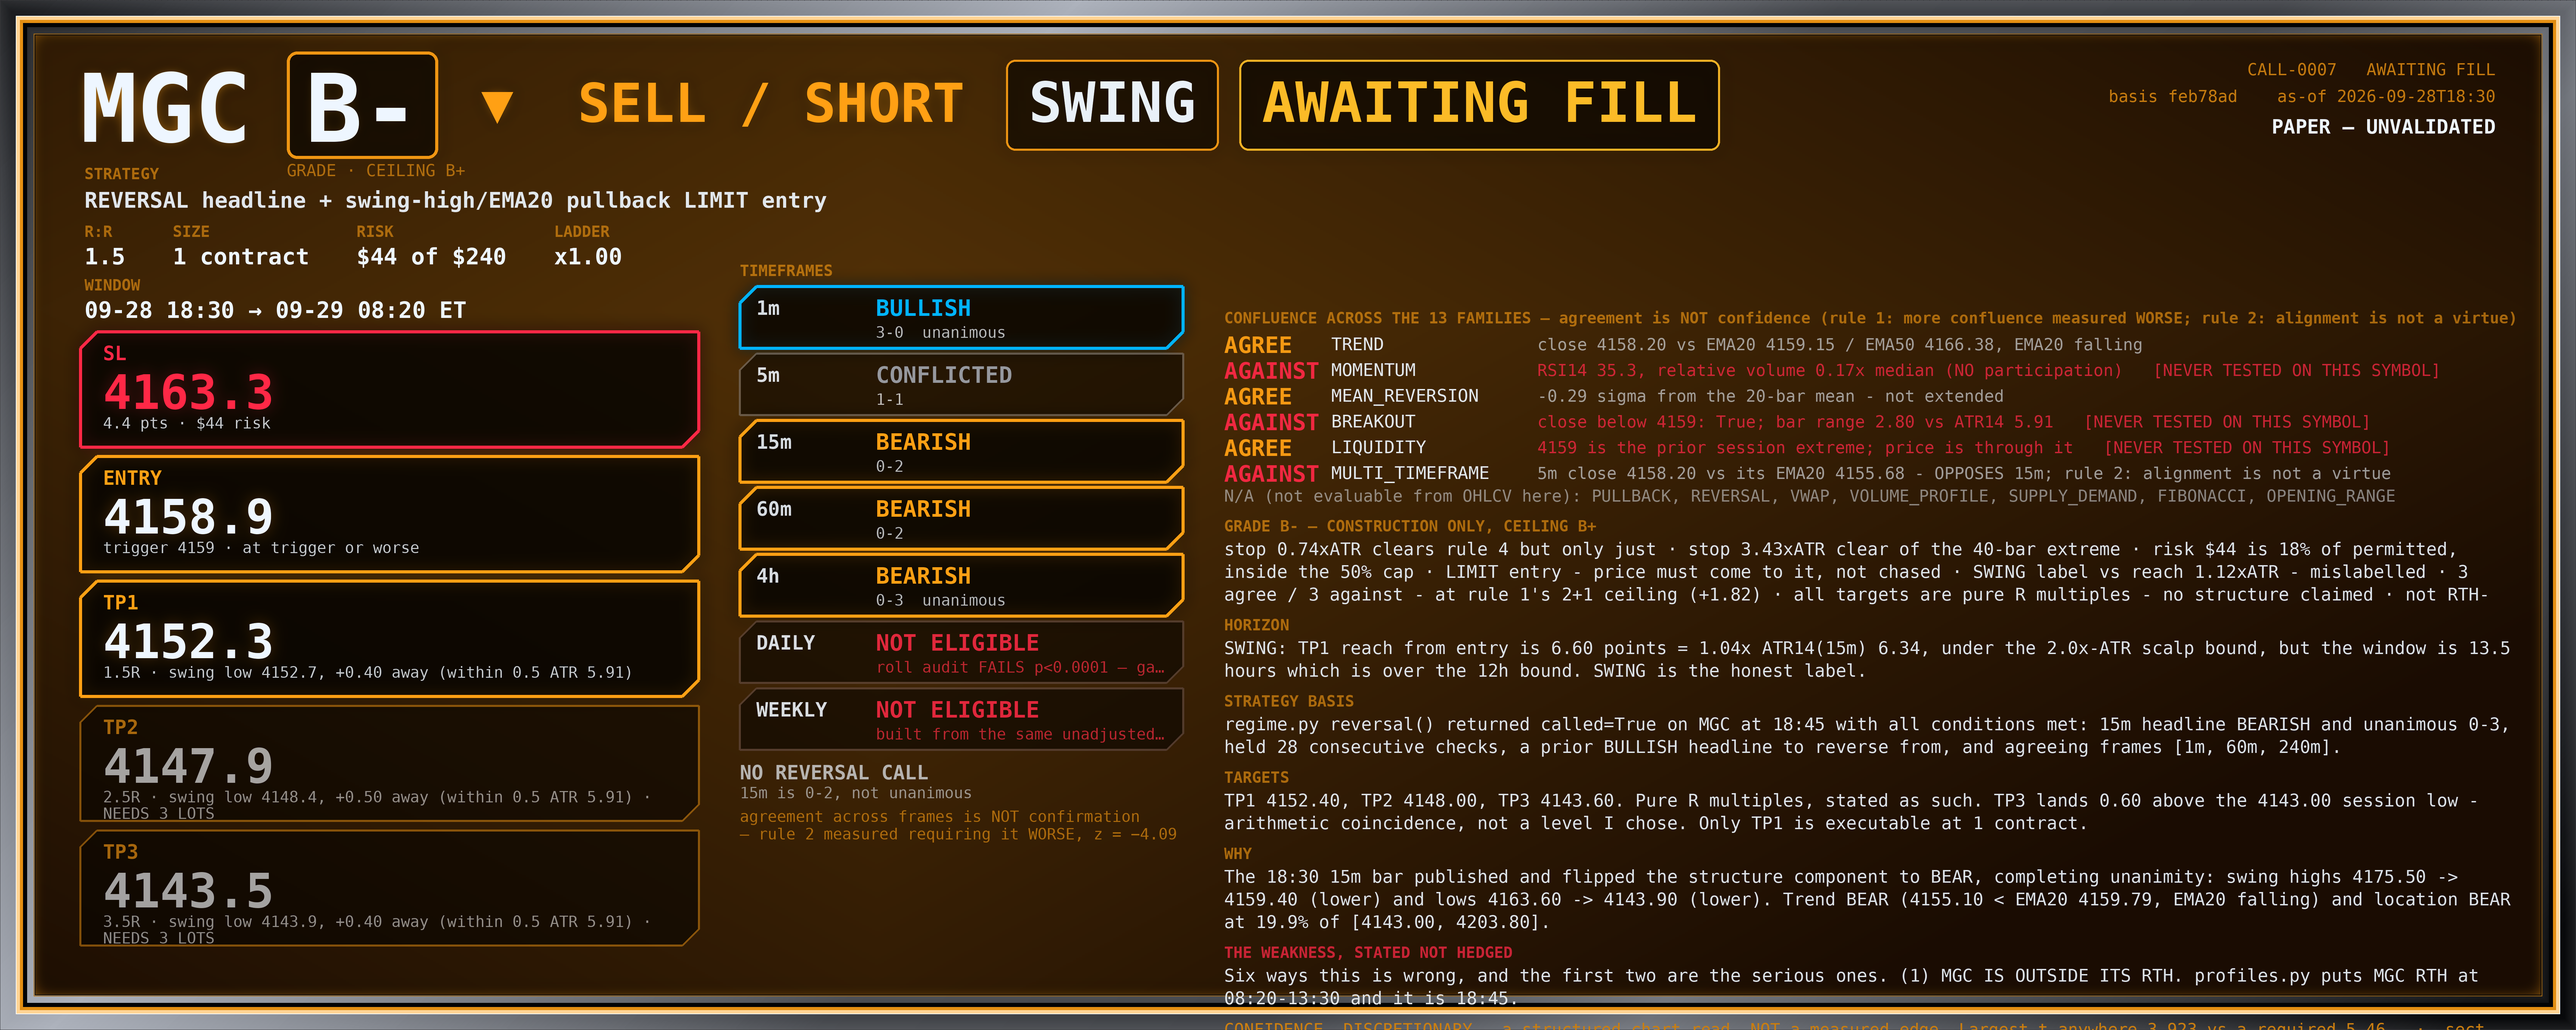
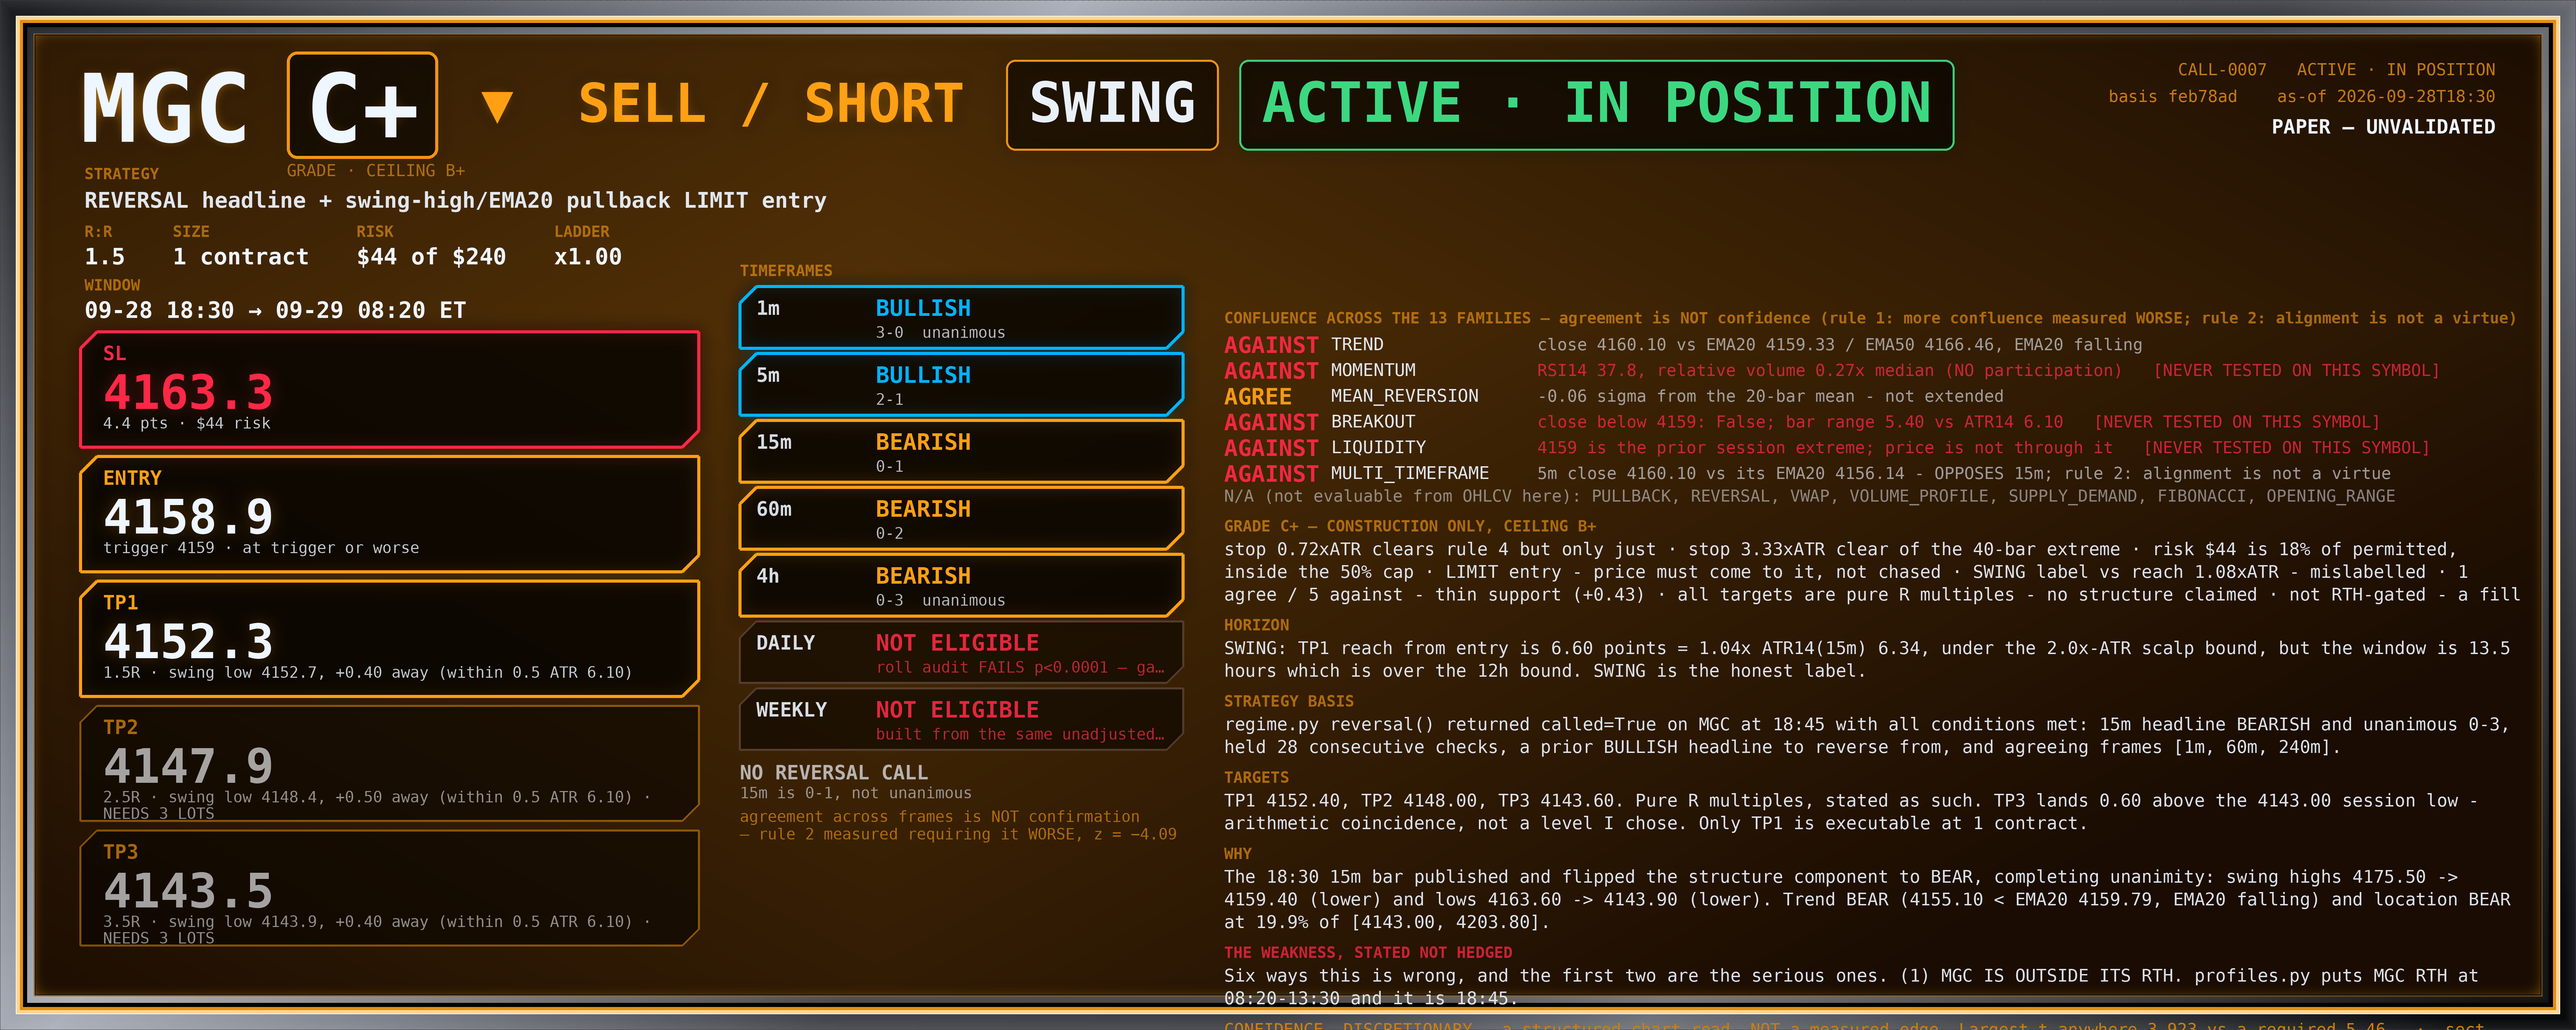
CALL desk: 19:36 - CALL-0007 FILLED, MGC SHORT @ 4159.00 on the 15m 19:15 bar, stop 4163.40, $44 at risk; detected 21 min later inside the blind spot and already 1.10 against. It filled on a gate that had lapsed, the risk I flagged at 19:00 and declined to void
Claude-Session: https://claude.ai/code/session_01EE6PFk7fGa2tM4KP6dpfWD

diff --git a/workspace/paper/CALL/DECISIONS.md b/workspace/paper/CALL/DECISIONS.md
@@ -64,6 +64,7 @@ the second is how a veto flatters itself and quoting only the first is how a tra
 | 22 | 19:02 | **The 19:00 "gate lapsed" was a REVISION, not an event — corrected.** The 18:45 15m bar restated (`new=0 revised=1`), the 4153.70 higher low was revised away, structure is BEAR again and the reversal call is back, held 44 checks with agreeing frames [1m, 5m, 60m, 240m] | I reported a lapse as a real change. It was a restatement of an unclosed bar, exactly what N140 says to distrust, and I described it as the gate dropping | **refusing to act on it was right, and this is the proof.** Had I installed a "gate lapsed" void rule at 19:00 and killed CALL-0007, I would have killed a live plan on a number that no longer exists. N8 protected the plan from my own reaction | sixth 15m flip-and-revert today. The lesson is not "be slower" — it is that a gate change read off an unclosed bar is not a gate change until the bar settles |
 | 23 | 19:04 | **CALL-0008 — LONG MNQ pre-registered.** 15m went unanimous BULL 3-0 (EMA20 turned rising, higher high AND higher low), reversal called with agreeing frames [1m, 5m, DAILY, WEEKLY]. LIMIT BUY 30588.00, stop 30565.00 (23.00 pts = 0.61x ATR), TP1 30622.50, 1 contract, $46 | if both plans fill and both lose: **−$90 (−2R)**. Opposite directions on two markets is NOT a hedge — MGC and MNQ are independent, so these are two bets, not offsetting ones | the gate said yes with both vetoes clear; refusing a satisfied gate because the call is only 3 checks old is the discretionary veto N194 blamed for sitting out the morning trend | **the call is 3 checks old and MNQ has flipped 7 times today**; 60m and 4h both disagree; evening volume is 5.5% of RTH median on the newest bar. Sized against the BOOK ($90 of $120 cap), not against an empty account |
 | 24 | 19:16 | **Both gates have now genuinely lapsed — on a SETTLED bar, unlike the two revision artifacts at 19:00 and 19:08.** The 19:00 15m bar published (`new=1`): MGC structure MIXED on a higher low 4143.90→4152.70, MNQ structure MIXED on a lower high 30615.25→30605.75. Neither reversal is called | both plans stay live on evidence that has now really weakened. CALL-0007 is 3.40 from its limit and CALL-0008 is 7.25 from its, so either could still fill on a condition that no longer holds — **$90 at risk behind two lapsed gates** | N8 again: no editing a pre-registered plan after watching price, and no inventing a void rule mid-flight. The 19:02 episode proved why — I would have killed CALL-0007 on a number that came back | the distinction that matters: `new=1` means this lapse is real, `new=0 revised=1` meant the earlier two were not. Same reading, different evidential weight, and the desk must not treat them alike |
+| 25 | 19:36 | **CALL-0007 FILLED — first fill since CALL-0006.** MGC SHORT @ 4159.00, entry bar 15m `19:15`, stop 4163.40, TP1 4152.40, 1 contract, $44 at risk. `resolve.py` wrote it, not me | **it filled on a gate that had already lapsed.** I flagged that exact risk at 19:00 and again at 19:16 and declined to kill the plan for it; the risk has now materialised, and the trade is live on a condition that stopped holding 20 minutes before entry | the alternative was a post-hoc void rule invented mid-flight, which the 19:02 revision artifact proved would have killed a plan on a number that came straight back. N8 held and the cost of N8 holding is this fill | **the fill was detected 21 minutes after its entry bar** — the blind spot, exactly as N214 measures it. Position is already 1.10 points against me (−$11 unrealized, not realized); the 15m `19:15` bar high of 4161.40 came within 1.40 of the 4163.40 stop without hitting it |
 
 ### What the tally actually says
 

diff --git a/workspace/paper/CALL/LEDGER.md b/workspace/paper/CALL/LEDGER.md
@@ -5,7 +5,7 @@ has a measured edge (largest *t* 3.923 against `free_t` 5.46), so this ledger is
 record of a *process*, not evidence of one. It is generated by `resolve.py`;
 do not hand-edit it.
 
-**Regenerated:** 2026-09-28T23:05:53+00:00 · **basis:** acca704
+**Regenerated:** 2026-09-28T23:36:32+00:00 · **basis:** e341ba3
 
 ## Account
 
@@ -37,6 +37,12 @@ do not hand-edit it.
 measured four times that moving a stop raises payoff ~89% and drops win rate ~14
 points for no expectancy gain, so either number alone is misleading.
 
+## Open positions
+
+| id | symbol | side | entry | stop | next target | lots | risk $ |
+|---|---|---|---|---|---|---|---|
+| CALL-0007 | MGC | SHORT | 4159.0 | 4163.4 | 4152.4 (TP1) | 1/1 | $44.00 |
+
 ## Pre-registered, awaiting trigger
 
 Written down *before* the price existed — which is the only thing in this
@@ -45,7 +51,6 @@ hypothesis against 5.46 for a searched population).
 
 | id | symbol | side | trigger | stop pts | targets (R) | lots | expires |
 |---|---|---|---|---|---|---|---|
-| CALL-0007 | MGC | SHORT | 4159.0 | 4.4 | TP1 1.5R | 1 | 2026-09-29T08:20:00-04:00 |
 | CALL-0008 | MNQ | LONG | 30588.0 | 23.0 | TP1 1.5R | 1 | 2026-09-29T09:30:00-04:00 |
 
 ## Closed trades
